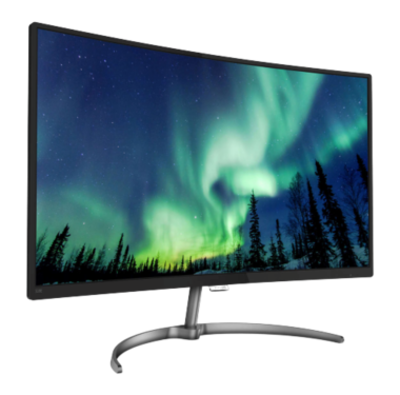
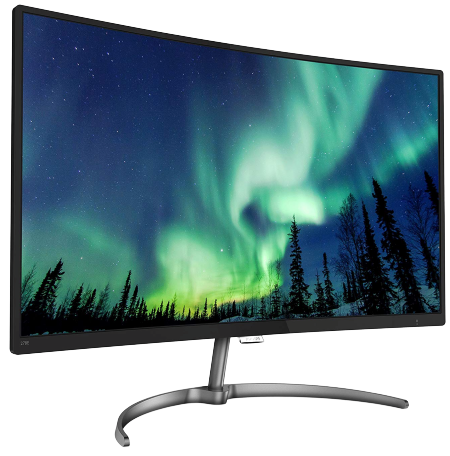
Bildgröße in Detailseite angepasst

diff --git a/src/page-detail/page-detail.css b/src/page-detail/page-detail.css
@@ -29,7 +29,8 @@
 .container .imgBX img
 {
   position: relative;
-  width: 30em;
+  max-width: 22em;
+  max-height: 22em;
 }
 .container .details
 {
